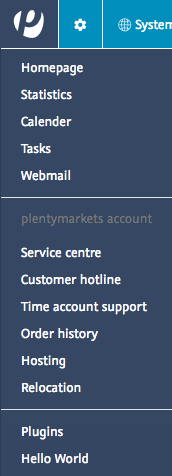
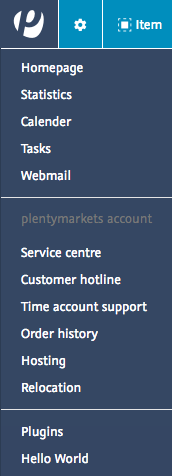
UPDATE screenshots and added button for downloading tutorial projects on Github

Changed region(s): [[0.6686, 0.0294, 1.0, 0.0882]]

diff --git a/resources/css/main.scss b/resources/css/main.scss
@@ -899,11 +899,7 @@ footer {
 pre {
   background-color: $mercury-grey;
   padding: 10px;
-  border-radius: 5px;
-  border: none;
-  word-break: keep-all;
-  word-wrap: normal;
-  white-space: normal;
+  border-radius: 0;
 
   &.language-json {
     overflow: auto;
@@ -1206,7 +1202,6 @@ code {
   font-family: "Menlo";
   font-style: normal;
   font-weight: 400;
-  word-break: keep-all;
   word-wrap: normal;
   white-space: pre;
   background-color: transparent;
